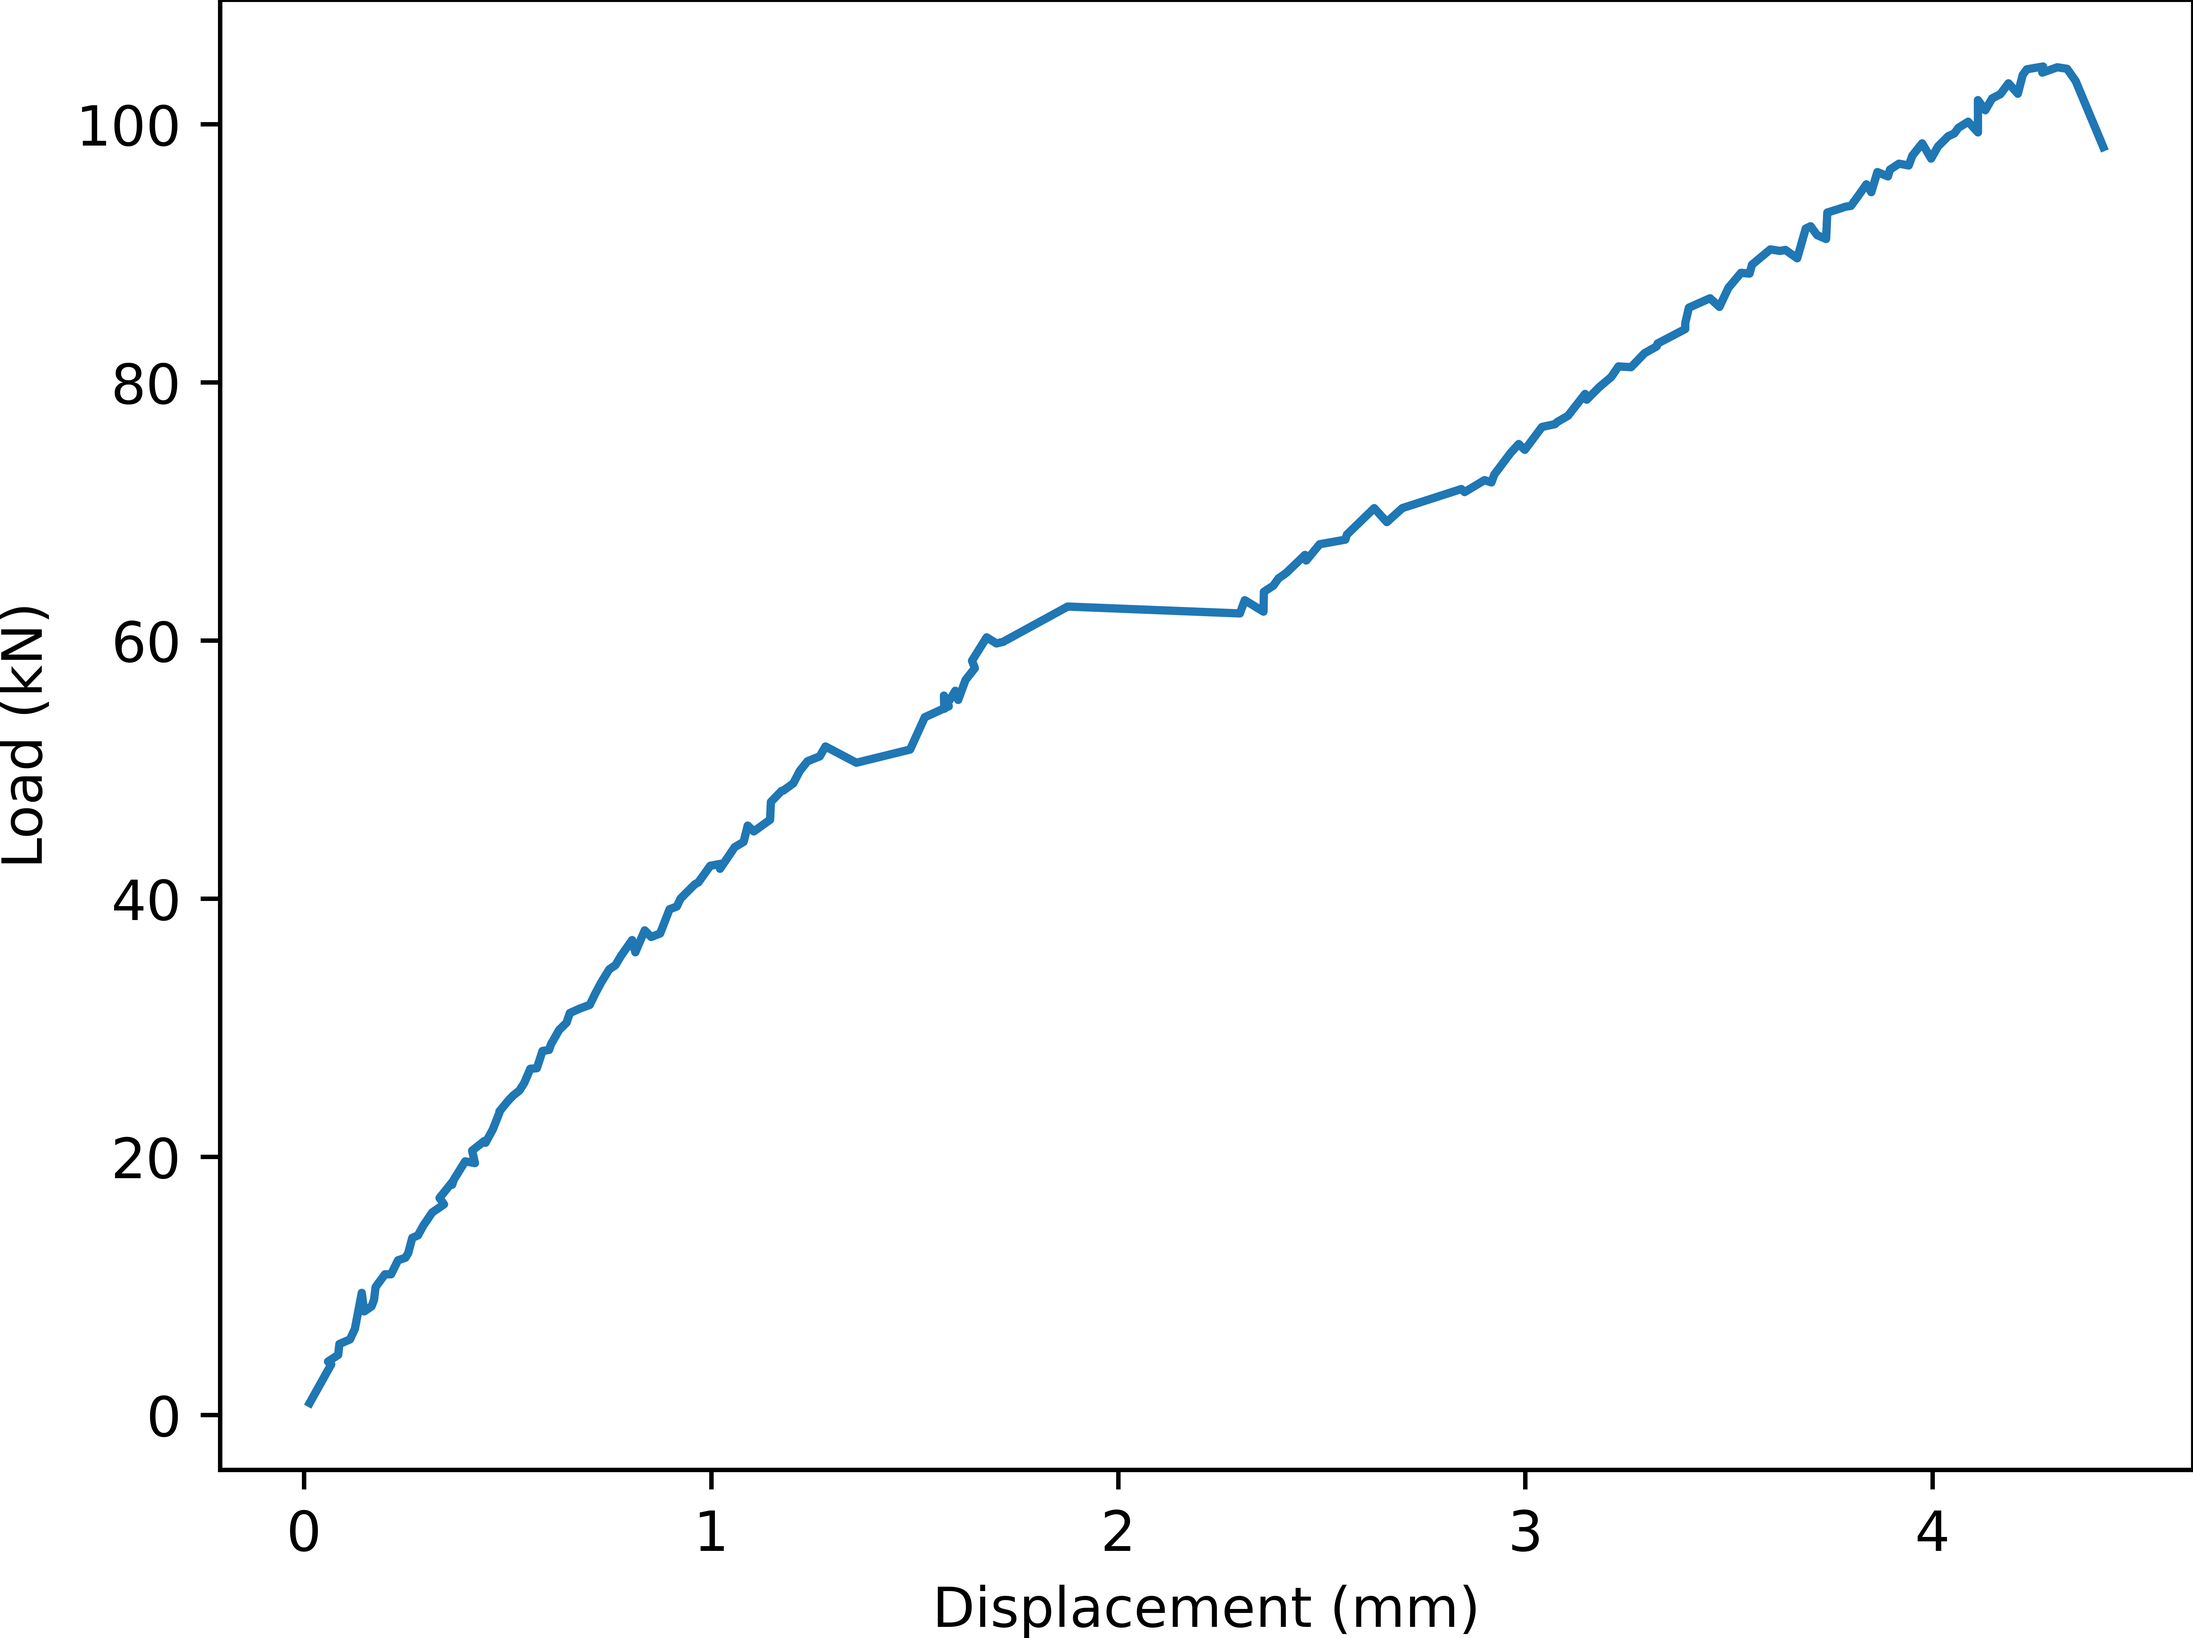
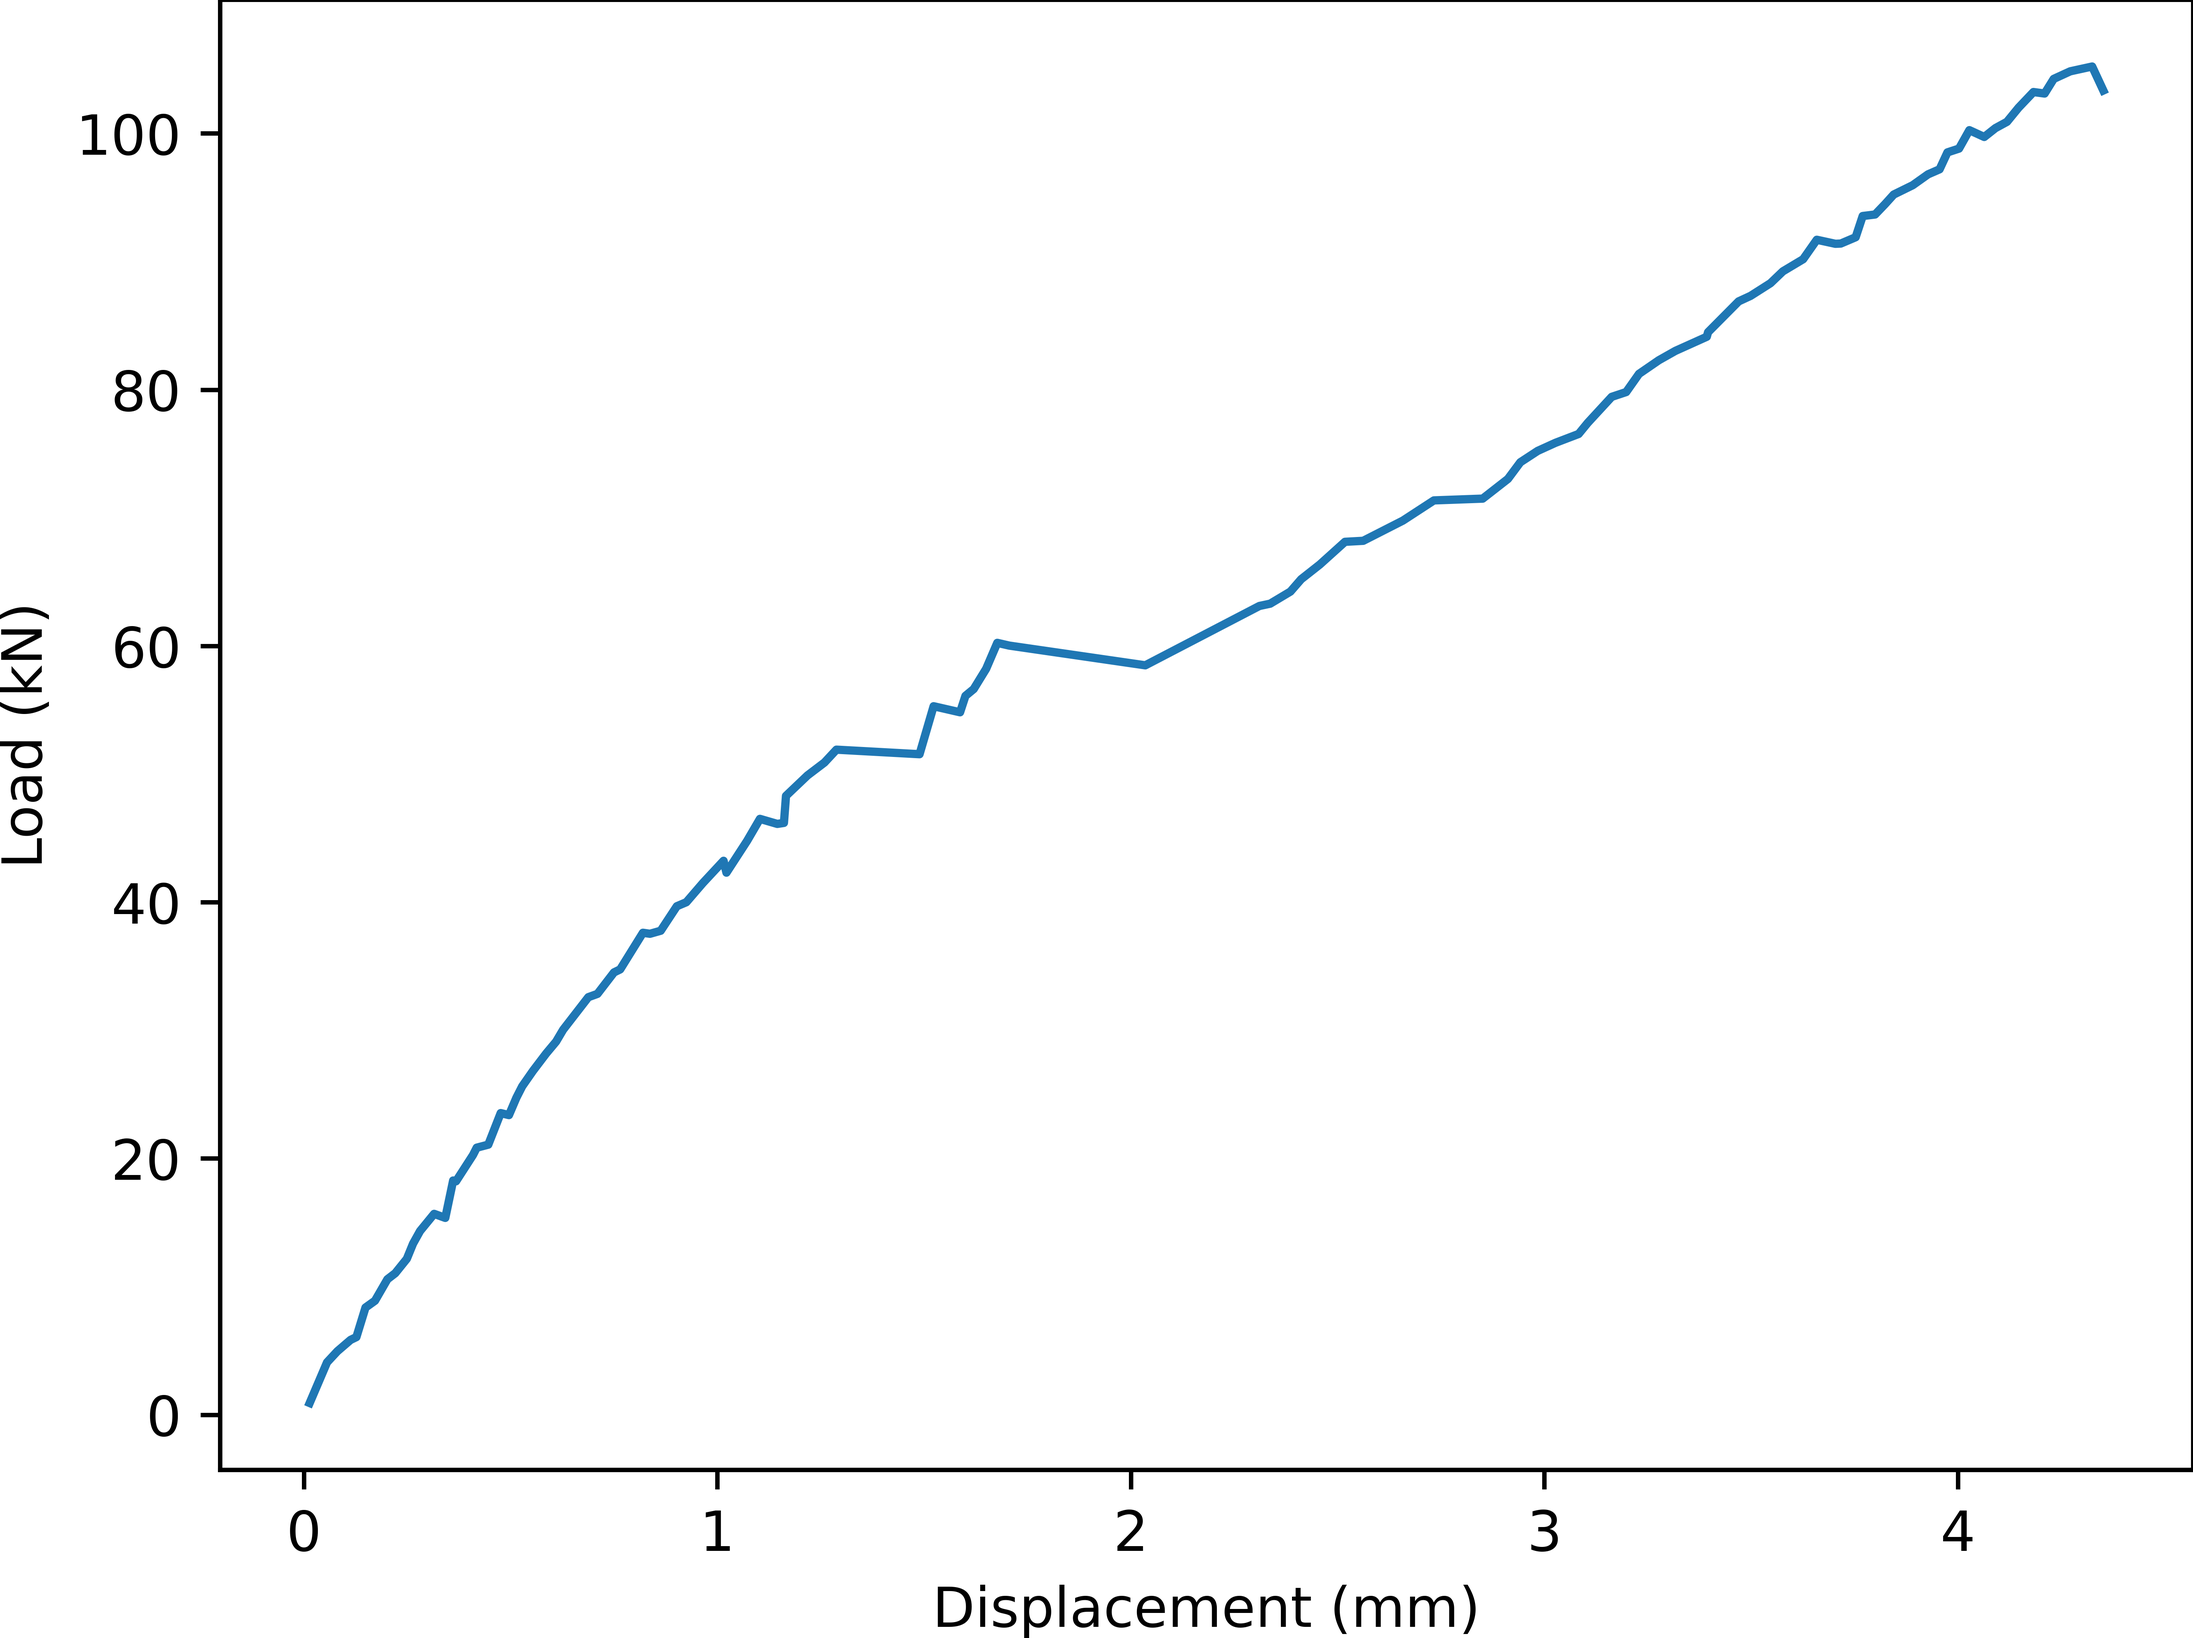
.

diff --git a/lab.py b/lab.py
@@ -32,10 +32,16 @@ def open_tr():
 
 	tr = tr.reshape((numrow, numcol))
 	time = tr[:,0]
-	load = tr[:,-1]
-	data = tr[:,1:numcol-1]
+	load = tr[:,1]
+	q1 = tr[:,2]
+	mid = tr[:,3]
+	q2 = tr[:,4]
 
-	print(tr)
+	# calibrate 
+	mid = 67.8124*mid+0.7634
+
+	return time, load, q1, mid, q2
+	
 
 def get_coords(t, scale=False):
 	''' extract xyz coordinate data '''
@@ -110,6 +116,19 @@ def plot_load_disp(xpts, ypts):
 	plt.savefig('2D_plot.png', format='png', dpi=1000, bbox_inches='tight', pad_inches = 0)
 	plt.show()
 
+def plot_two_load_disp(xpts1, ypts1, xpts2, ypts2):
+	''' plot 2D graph ''' 
+
+	step = 20
+	plt.plot(xpts1[1::step], ypts1[1::step])
+	step = 40
+	plt.plot(xpts2[1::step], ypts2[1::step])
+	plt.xlabel('Displacement (mm)')
+	plt.ylabel('Load (kN)')
+	plt.legend(('Transducer','LED'))
+	plt.savefig('2D_plot.png', format='png', dpi=1000, bbox_inches='tight', pad_inches = 0)
+	plt.show()
+
 def animate():
 	''' animate the displacement in time '''
 
@@ -147,21 +166,26 @@ data, time, load  = open_led()
 # animate()
 
 #==== plot 2D data ====#
-# xpts, ypts = get_load_disp(15, data, load) #index 16 (L/2)
+xpts, ypts = get_load_disp(15, data, load) #index 16 (L/2)
 # plot_load_disp(xpts, ypts)
 
-# xpts1, ypts = get_load_disp(2, data, load) #index 3  (L/4)
-# xpts2, ypts = get_load_disp(10, data, load) #index 11 (L/4)
-# xpts = (xpts1+xpts2)/2
+xpts1, ypts = get_load_disp(2, data, load) #index 3  (L/4)
+xpts2, ypts = get_load_disp(10, data, load) #index 11 (L/4)
+xpts = (xpts1+xpts2)/2
 # plot_load_disp(xpts, ypts)
 
-# xpts1, ypts = get_load_disp(28, data, load) #index 29  (L/4)
-# xpts2, ypts = get_load_disp(32, data, load) #index 33 (L/4)
-# xpts = (xpts1+xpts2)/2
+xpts1, ypts = get_load_disp(28, data, load) #index 29  (3L/4)
+xpts2, ypts = get_load_disp(32, data, load) #index 33 (3L/4)
+xpts = (xpts1+xpts2)/2
 # plot_load_disp(xpts, ypts)
 
 
 #==== TRANSDUCER DATA ====#
-open_tr()
+time, load2, q1, mid, q2 = open_tr()
+ypts = abs(mid-mid[0])
+# plot_load_disp(abs(mid-mid[0]), load2)
+
+xpts, ypts = get_load_disp(15, data, load) #index 16 (L/2)
+plot_two_load_disp(abs(mid-mid[0]), load2, xpts, ypts)
 
 
